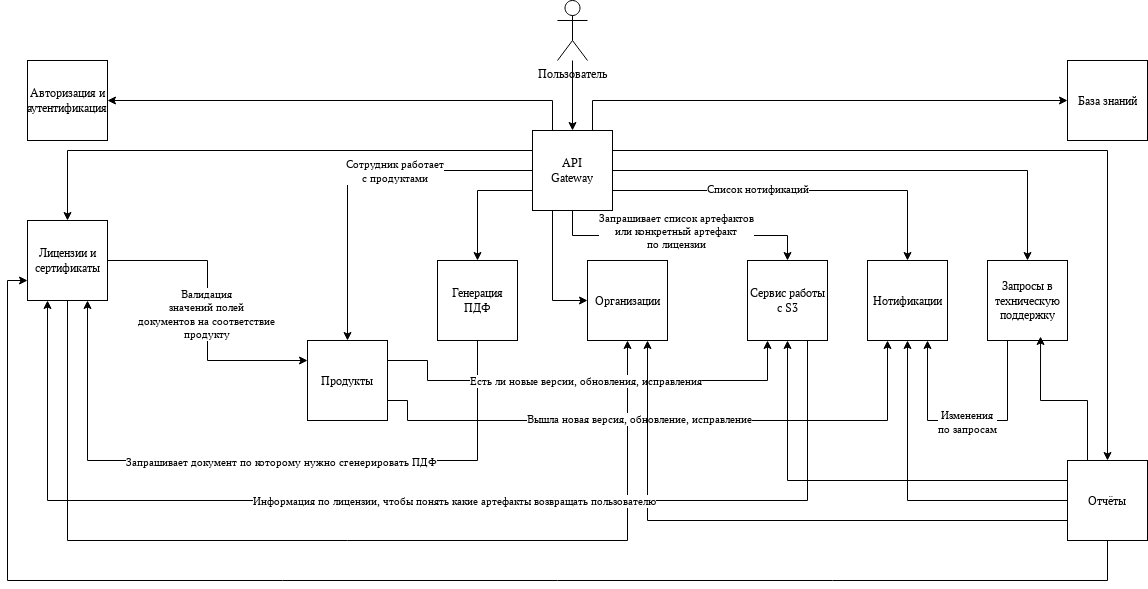
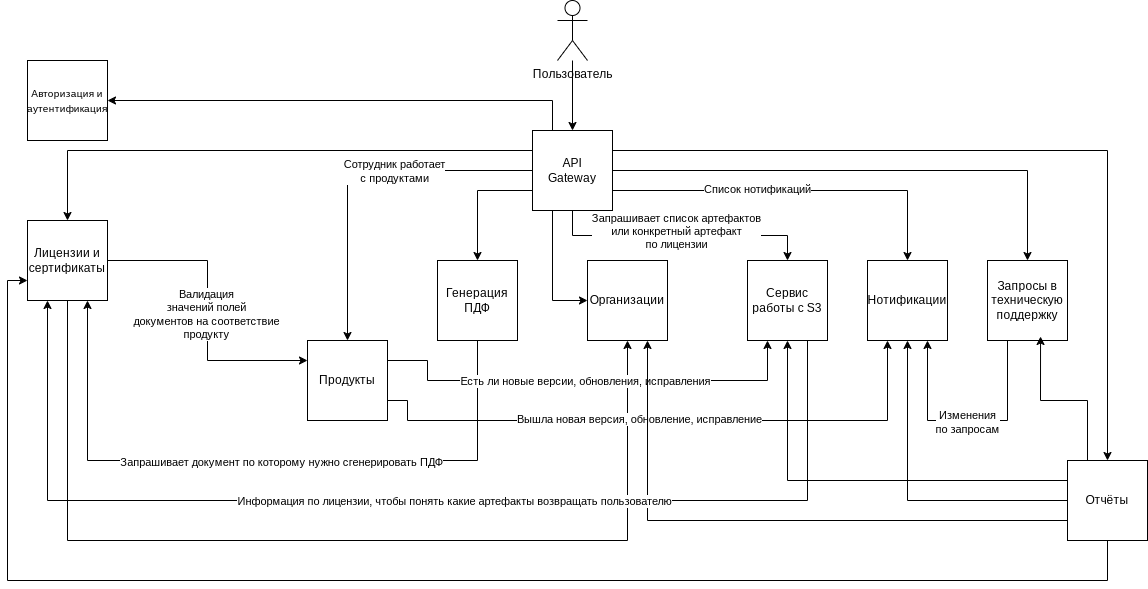
Убрал сервис БЗ. Отредактировал схему. Добавил контракты

diff --git a/README.md b/README.md
@@ -8,7 +8,6 @@
 - Как клиент, я хочу видеть и скачивать образы, обновления и документацию на моё ПО  
 - Как клиент, я хочу получать уведомления о выходе новых версий, обновлений и исправлении  уязвимостей моего ПО  
 - Как клиент, я хочу получать уведомления об истечения срока действий лицензий и сертификатов на моё ПО  
-- Как клиент, я хочу иметь доступ к базе знаний о моём ПО
 - Как клиент, я хочу создавать запросы в поддержку и получать уведомления по ним
 - Как клиент, я хочу передавать лицензии и сертификаты ТП в дочерние организации
 - Как клиент, я хочу добавлять пользователей в свою и дочерние организации
@@ -18,3 +17,87 @@
 
 ## Схема взаимодействия сервисов
 [<img src="https://raw.githubusercontent.com/toolen/otus-microservice-architecture-hw/refs/heads/hw-01/%D0%A1%D1%85%D0%B5%D0%BC%D0%B0%20%D0%B2%D0%B7%D0%B0%D0%B8%D0%BC%D0%BE%D0%B4%D0%B5%D0%B9%D1%81%D1%82%D0%B2%D0%B8%D1%8F%20%D1%81%D0%B5%D1%80%D0%B2%D0%B8%D1%81%D0%BE%D0%B2.png">](https://github.com/toolen/otus-microservice-architecture-hw/blob/hw-01/%D0%A1%D1%85%D0%B5%D0%BC%D0%B0%20%D0%B2%D0%B7%D0%B0%D0%B8%D0%BC%D0%BE%D0%B4%D0%B5%D0%B9%D1%81%D1%82%D0%B2%D0%B8%D1%8F%20%D1%81%D0%B5%D1%80%D0%B2%D0%B8%D1%81%D0%BE%D0%B2.png)
+
+## Назначение и зоны ответственности сервисов
+### API Gateway
+Точка входа. Агрегация API сервисов. Валидация JWT токенов.
+
+### Сервис авторизации и аутентификации
+Хранение информации о пользователях. Генерация JWT токенов. Управление доступами пользователей к тем или иным сервисам.
+
+### Сервис лицензий и сертификатов
+Хранение информации о лицензиях и сертификатах, их сроках действия,принадлежности к организациям, добавлении новых.
+
+### Сервис продукты
+Хранение и управление информации о продуктах, их параметрах, версиях, расположении в s3
+
+### Сервис генерации ПДФ
+Генерирование лицензий и сертификатов в виде пдф файлов, хранение шаблонов лицензий и сертификатов для каждого продукта
+
+### Сервис организаций
+Хранение и управление информации об организациях, их типах и отношений м/у собой
+
+### Сервис работы с S3
+Предоставление списков артефактов по лицензиям, скачиваний, агрегирования артефактов в архивы.
+
+### Сервис нотификаций
+Предоставление списка нотификаций, рассылка уведомлений на почту по событиям, рассылка регулярных уведомлений.
+
+### Сервис запросов в техническую поддержку
+Создание и ведение запросов в техническую поддержку.
+
+### Сервис отчётов
+Генерирование отчётов по лицензиям, сертификам, запросам в ТП.
+
+## Контракты взаимодействия сервисов
+### Сервис авторизации и аутентификации
+`POST /api/v1/jwt` - возвращает access и refresh токен, если пользователь ввёл правильные логин и пароль  
+`POST /api/v1/jwt/refresh` - возвращает новый access токен, если запрос сделан валидным refresh токеном  
+`GET /api/v1/me` - возвращает информацию о пользователе его организации и правах  
+
+### Сервис лицензий и сертификатов
+`GET /api/v1/licenses` - возвращает список лицензий организации пользователя  
+`GET /api/v1/licenses/{id}` - возвращает конкретную лицензий организации пользователя  
+`GET /api/v1/certificates` - возвращает список сертификатов организации пользователя  
+`GET /api/v1/certificates/{id}` - возвращает конкретный сертификат организации пользователя  
+
+### Сервис продукты
+`GET /api/v1/products` - возвращает список продуктов поддерживаемых порталом  
+`GET /api/v1/products/{id}` - возыращает информацию о конкретном продукте  
+`POST /api/v1/products` - создаёт новый продукт  
+`PATCH /api/v1/products/{id}` - редактирует продукт  
+
+### Сервис генерации ПДФ
+`GET /api/v1/licenses/{id}` - возвращает ПДФ лицензии  
+`GET /api/v1/certificates/{id}` - возвращает ПДФ сертификата  
+
+### Сервис организаций
+`POST /api/v1/cabinets` - создаёт новую организацию  
+`GET /api/v1/cabinets/{id}` - возвращает информацию об организации  
+`PATCH /api/v1/cabinets/{id}` - редактирует организацию  
+
+### Сервис работы с S3
+`GET /api/v1/licenses/{id}/images` - возвращает список артефактов доступных для скачивания по лицензии
+
+### Сервис нотификаций
+`GET /api/v1/notifications` - возвращает список нотификаций
+`POST /api/v1/notifications` - созадёт нотификацию
+`PATCH /api/v1/notifications/{id}` - редактирует нотификацию
+`DELETE /api/v1/notifications/{id}` - удаляет нотификацию
+
+### Сервис запросов в техническую поддержку
+`GET /api/v1/issues` - возвращает список запросов
+`POST /api/v1/issues` - создаёт запрос ТП
+`PATCH /api/v1/issues/{id}` - редактирует запрос ТП
+`GET /api/v1/issues/{id}/comments` - возвращает список комментариев к запросу ТП
+`POST /api/v1/issues/{id}/comments` - создаёт комментарий к запросу ТП
+`PATCH /api/v1/issues/{id}/comments/{id}` - редактирует комментарий к запросу ТП
+`DELET /api/v1/issues/{id}/comments/{id}` - удаляет комментарий к запросу ТП
+`GET /api/v1/issues/{id}/attachments` - возвращает список атачментов к запросу ТП
+`GET /api/v1/issues/{id}/attachments/{id}` - скачивание конкретного атачмента запроса ТП
+`DELETE /api/v1/issues/{id}/attachments/{id}` - удаление конкретного атачмента запроса ТП
+
+### Сервис отчётов
+`GET /api/v1/licenses?format={pdf|csv|xlsx}&cabinet_id={id}` - генерирует список лицензий организации пользователя в указаном формате, сотрудники могу передать идентификатор интересующей организации
+`GET /api/v1/certificates?format={pdf|csv|xlsx}&cabinet_id={id}` - генерирует список сертификатов организации пользователя в указаном формате, сотрудники могу передать идентификатор интересующей организации
+`GET /api/v1/issues?format={pdf|csv|xlsx}&cabinet_id={id}` - генерирует список запросов ТП организации пользователя в указаном формате, сотрудники могу передать идентификатор интересующей организации
